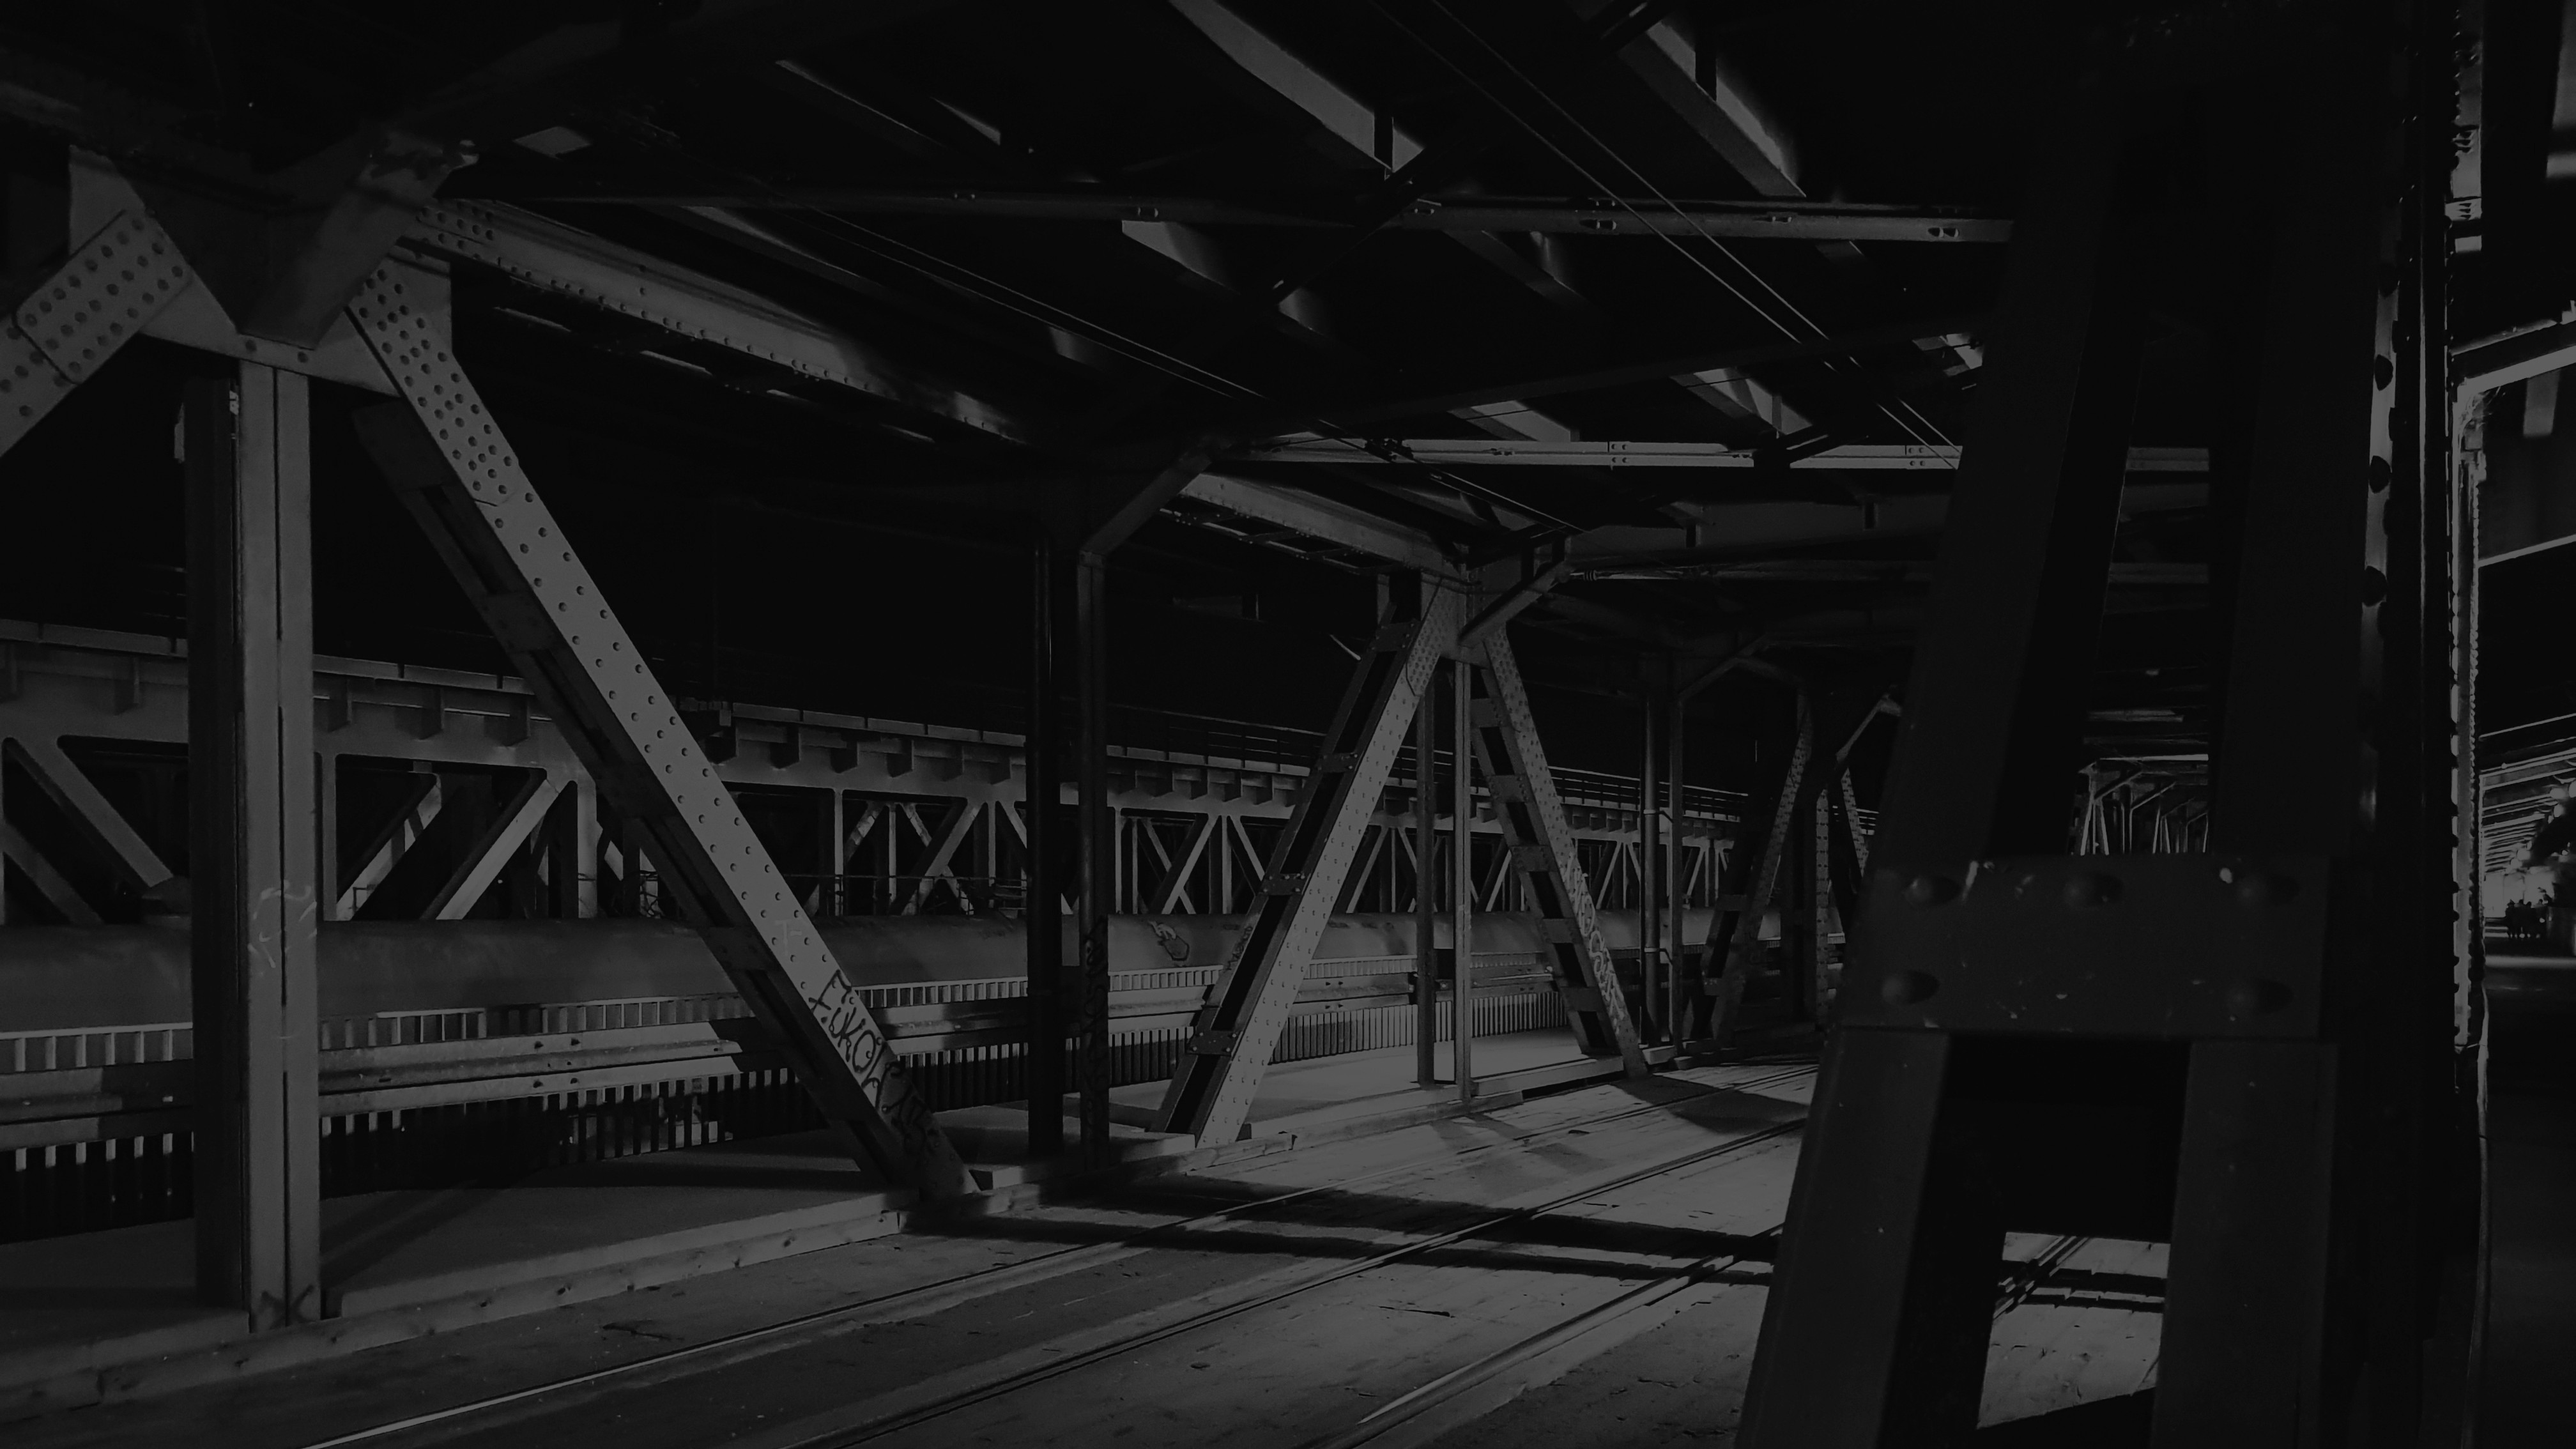
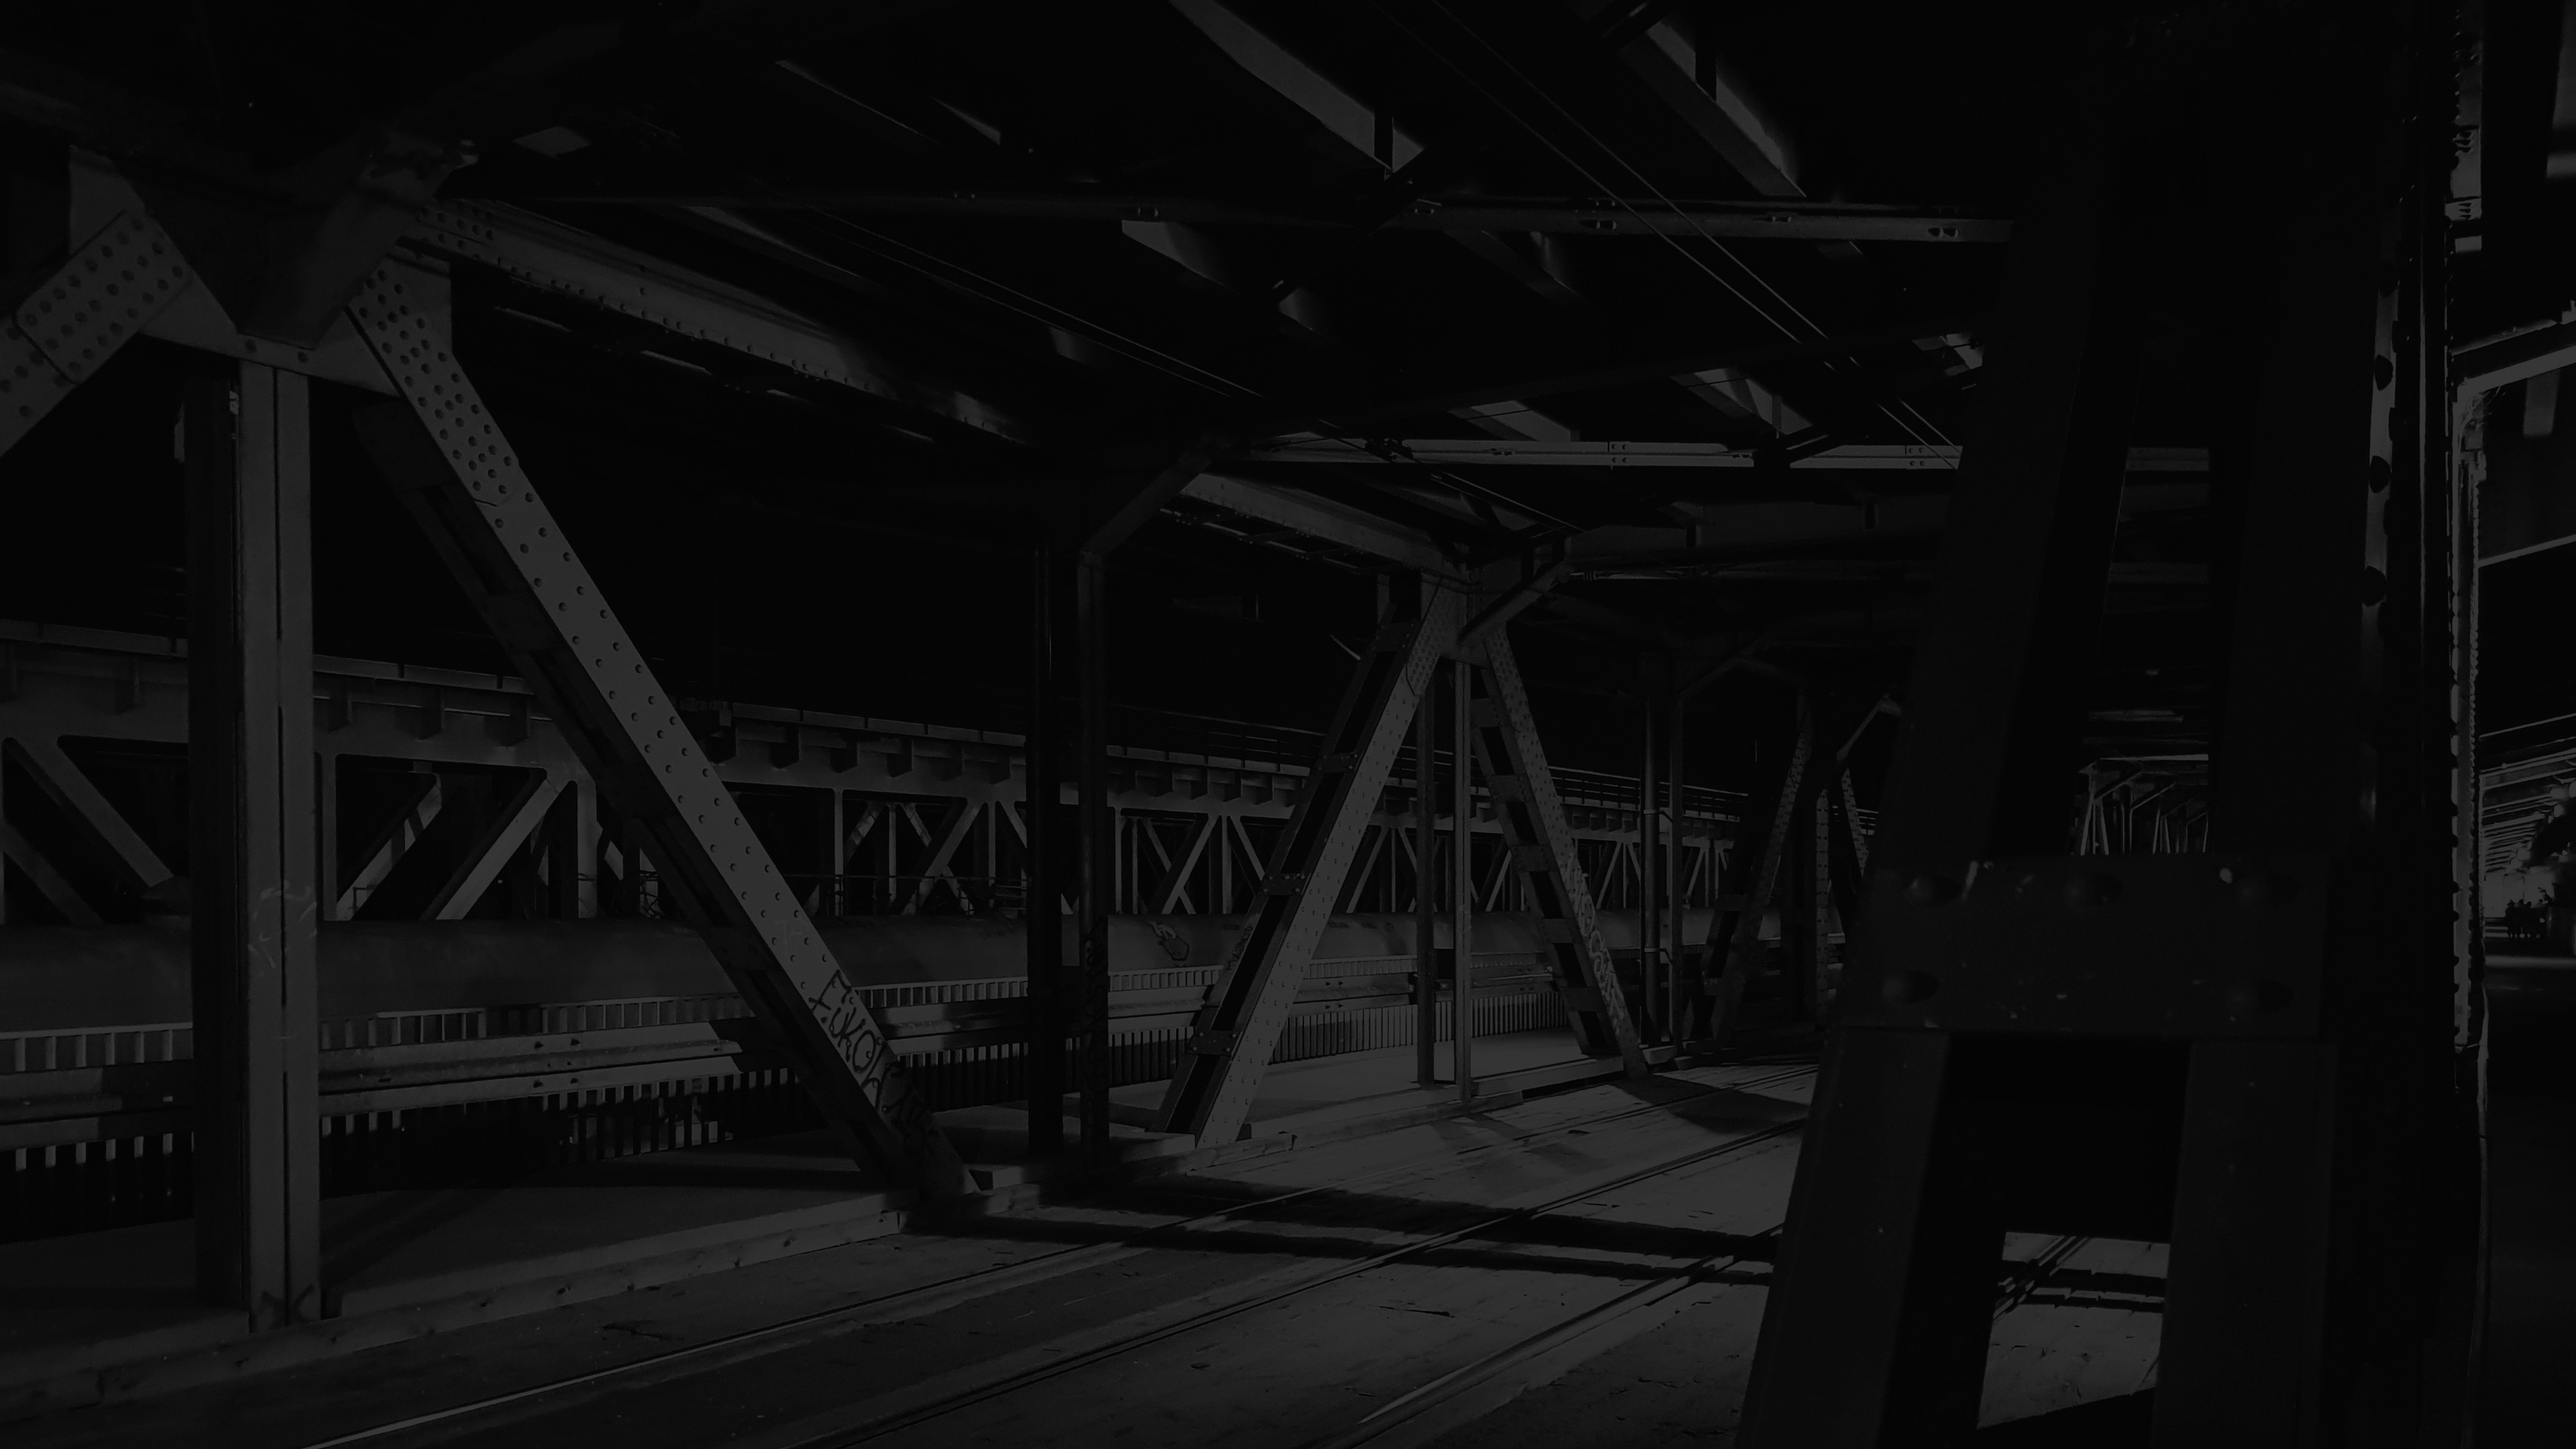
Darkened background image, slightly darkened white text colours

diff --git a/static/css/main.css b/static/css/main.css
@@ -36,16 +36,13 @@ a:focus {
 /* --- */
 
 .parallax {
-    background: rgba(0, 0, 0, .1) url("/static/img/background.jpg");
-    background-blend-mode: darken;
+    background: url("/static/img/background.jpg");
     background-repeat: no-repeat;
     background-position: center;
     background-size: cover;
 
-    padding:1.5em 9vw;
+    padding: 1.5em 9vw;
     
-    filter: grayscale(1);
-
     top: 0;
     left: 0;
     right: 0;
@@ -69,7 +66,7 @@ a:focus {
 .block {
     color: #222;
     background-color:#F6F6F6;
-    padding:1.5em 9vw;
+    padding: 1.5em 10vw;
 }
 
 .block-header {
@@ -95,19 +92,20 @@ a:focus {
     font-size:8.5vw;
     margin:0px;
     padding: 0em 0.2em 0em 0.2em;
-    border: 0.1em #FFF solid !important;
-    color:white;
+    border: 0.1em #F6F6F6 solid !important;
+    color:#F6F6F6;
     text-transform: uppercase;
 }
 
 .center-box {
-    color:white;
+    color:#F6F6F6;
     font-family: 'Montserrat', sans-serif;
     text-align: center;
     
     margin: 0px;
     display: flex;
-    flex-direction: column;    z-index: -1;
+    flex-direction: column;
+    z-index: -1;
 
     justify-content: center;
     align-items: center;
@@ -128,8 +126,6 @@ a:focus {
 
 #social-networks img {
     height: 2.7vw;
-    
-    opacity: 0.6;
 }
 
 #social-networks img:hover {
